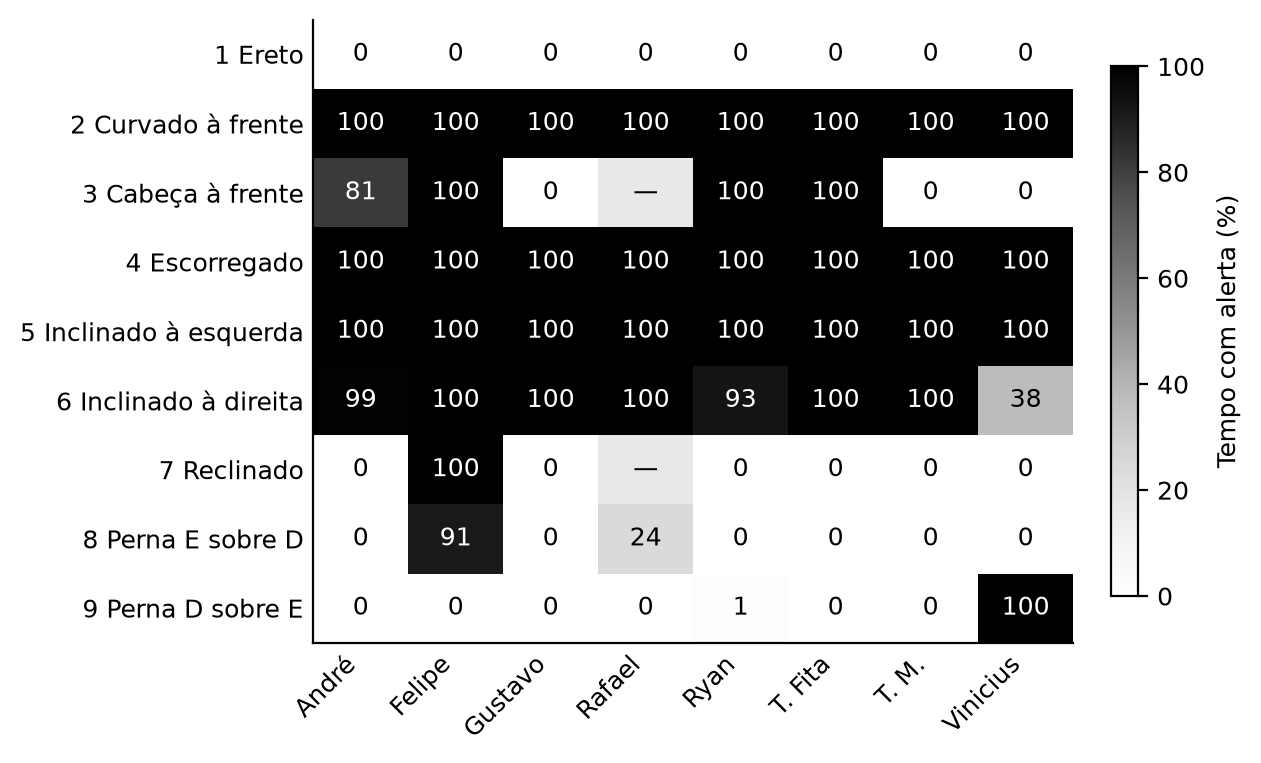
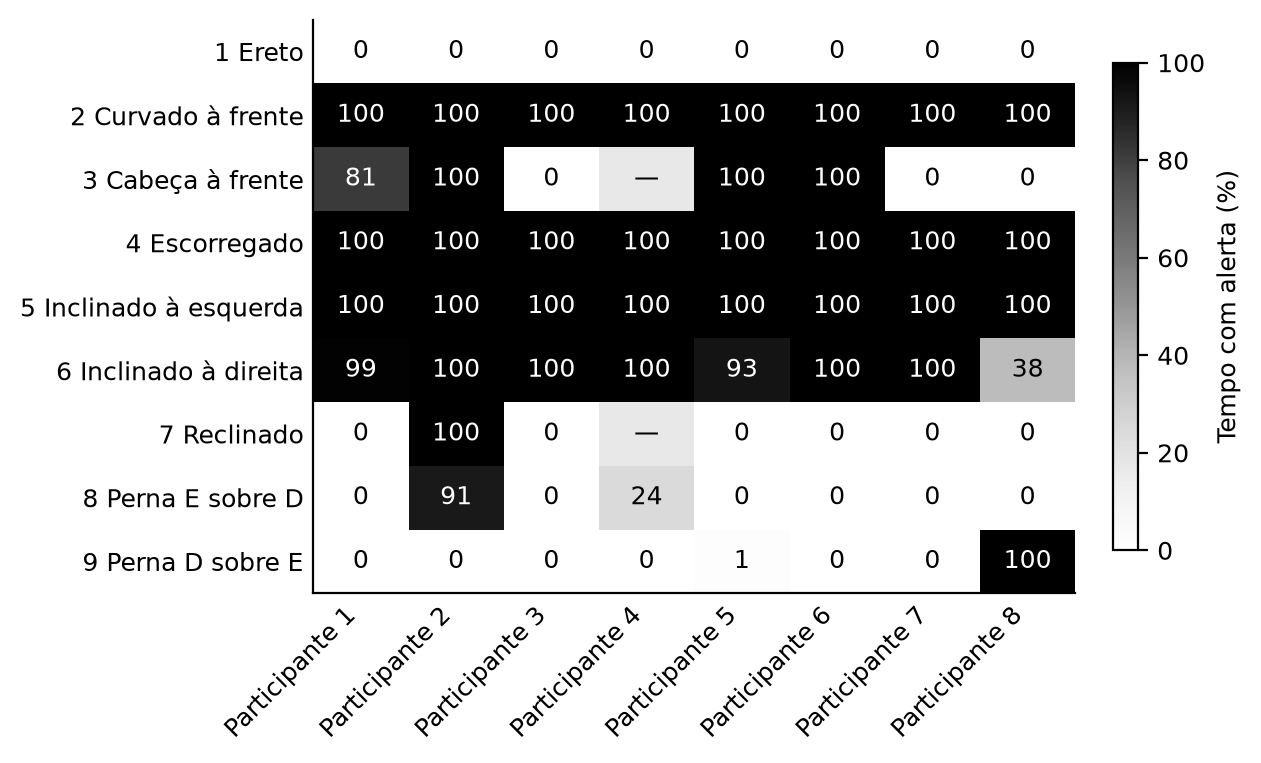
report: apply the advisor's notes on equations, dashboard and names (IMT)
Made on Overleaf and synced back, from Profa. Andressa's annotated PDF:
- ch. 3: each equation is now called in the text (Equação~\ref{...})
- ch. 3: Painel section rewritten (what it receives and how, status
  band, "Sua coluna", "Sua cadeira", timeline, visit flow) with a
  screenshot (figures/met-painel.png, from report/figures/met-dashboard-boa.png)
- ch. 4: participants anonymized (Participante 1..9) in the alert figure,
  its note and the text

diff --git a/report/imt/capitulos/3metodologia.tex b/report/imt/capitulos/3metodologia.tex
@@ -39,7 +39,7 @@ abaixo do pescoço, como mostra a Figura~\ref{fig:met-foto-colar}.
 Mede-se a orientação local, não a curvatura de toda a
 coluna. Utiliza-se apenas o acelerômetro, com giroscópio desligado.
 Das componentes $a_x$, $a_y$ e $a_z$, calculam-se \textit{pitch} ($p$)
-e \textit{roll} ($r$), em graus:
+e \textit{roll} ($r$), em graus, pela Equação~\ref{eq:met-angulos}:
 \begin{equation}
  p=\frac{180}{\pi}\operatorname{atan2}\!\left(-a_x,\sqrt{a_y^2+a_z^2}\right),
  \qquad r=\frac{180}{\pi}\operatorname{atan2}(a_y,a_z).
@@ -96,7 +96,8 @@ absoluta na espuma.
 O circuito da Figura~\ref{fig:met-esquema-cadeira} usa o multiplexador
 CD74HC4067 \cite{ti_cd74hc4067} para ligar cada FSR ao resistor
 compartilhado de 3{,}3\,k\ohm{} em SIG. Incluindo a resistência de
-condução $R_{\mathrm{on}}$, a tensão lida em A0 é
+condução $R_{\mathrm{on}}$, a tensão lida em A0 é dada pela
+Equação~\ref{eq:met-divisor}:
 \begin{equation}
  V_{\mathrm{SIG}}=V_{\mathrm{DD}}
  \frac{R_{\mathrm{fixo}}}{R_{\mathrm{fixo}}+R_{\mathrm{FSR}}+R_{\mathrm{on}}}.
@@ -146,7 +147,8 @@ A referência é volátil e deve ser refeita após reinício ou recolocação.
 
 Na fusão, $FE$, $FD$, $TE$ e $TD$ indicam frente/trás e esquerda/direita do
 assento. O encosto é registrado e exibido, mas não decide o alerta, pois
-pode ficar sem carga mesmo no ereto. Para leituras $f_i$, definem-se
+pode ficar sem carga mesmo no ereto. Para leituras $f_i$, definem-se os
+indicadores da Equação~\ref{eq:met-indicadores}:
 \begin{equation}
  \begin{gathered}
  \Delta p=p-p_0,\quad \Delta r=r-r_0,\quad
@@ -188,14 +190,30 @@ beacon BLE e exibe desvio, contato e alerta, sem participar da decisão.
 \section{Painel}
 \label{sec:met-painel}
 
-O painel foi desenvolvido em Python e apresenta ao usuário a postura
-identificada pelo sistema, o contato dos sensores de força da cadeira, o tempo
-de uso e a qualidade da postura ao longo do tempo, entre outras informações.
-Ele recebe os dados da XIAO da cadeira pela conexão USB ou, sem fio, pelo
-beacon BLE que essa placa transmite; neste caso, apenas escuta, sem
-estabelecer conexão nem enviar comandos.
+O painel, desenvolvido em Python, permite acompanhar o sistema em um
+computador, sem participar da decisão do alerta. Ele recebe da XIAO da
+cadeira, a 20\,Hz, a mesma linha de estado que a placa calcula: ângulos do
+colar, leituras dos oito FSRs, resultado da fusão e alerta. A ligação usa a
+porta USB ou, sem fio, o beacon BLE que a cadeira transmite; neste caso, o
+computador apenas escuta, sem estabelecer conexão nem enviar comandos. Pelo
+cabo, a calibração também pode ser solicitada pelo teclado.
 
-A função principal do painel é ajudar o usuário a encontrar a postura ideal:
-com as amostras do colar em tempo real, ele indica quando, após o tempo de
-espera, o usuário está em uma postura prejudicial, qual é essa postura e como
-retornar à zona segura definida pela calibração.
+A Figura~\ref{fig:met-painel} apresenta a tela. A faixa superior resume o
+estado em texto e cor: postura boa (verde), atenção enquanto a postura ruim
+ainda não completou os 3\,s (laranja) e correção com o colar vibrando
+(vermelho), sempre com o nome da postura identificada pelo sistema. O quadro
+``Sua coluna'' posiciona o desvio em relação à zona boa, centrada na
+calibração, junto às regiões típicas das posturas registradas; ``Sua
+cadeira'' mostra a carga relativa de cada FSR no assento e no encosto e a
+divisão do peso entre esquerda e direita. Abaixo, aparecem o tempo sentado,
+a fração do tempo em postura boa, o número de alertas e a linha do tempo dos
+últimos 2\,min. Cada uso começa na calibração e termina após 10\,s de
+assento vazio, quando a referência é apagada para o próximo usuário.
+
+\begin{figure}[H]
+ \centering
+ \caption{Tela do painel com o usuário em postura boa.}
+ \includegraphics[width=.85\linewidth]{met-painel.png}
+ \fonte{Elaborado pelos autores (2026)}
+ \label{fig:met-painel}
+\end{figure}

diff --git a/report/imt/capitulos/4resultados.tex b/report/imt/capitulos/4resultados.tex
@@ -80,8 +80,8 @@ rótulo; por isso, informa-se também o tempo alertado.
 Na Figura~\ref{fig:res-alerta-sujeitos}, curvar à frente, escorregar e
 inclinar à esquerda alertaram durante todo o recorte com a fusão final.
 Cabeça à frente falhou em três de sete participantes: o movimento
-localizado pouco alterou o IMU e preservou o contato. À direita de
-Vinicius, desvio próximo ao limiar e carga oposta à esperada limitaram
+localizado pouco alterou o IMU e preservou o contato. À direita do
+Participante 8, desvio próximo ao limiar e carga oposta à esperada limitaram
 o alerta a 38\,\% do tempo.
 
 \begin{figure}[H]
@@ -93,14 +93,13 @@ o alerta a 38\,\% do tempo.
   \begingroup\SingleSpacing
   {\footnotesize Espera-se alerta nas linhas 2--6 e ausência nas demais;
   células escuras indicam mais alerta, não necessariamente acerto. Traço:
-  postura não registrada. E/D: esquerda/direita; T. Fita/T. M.: Thiago
-  Fita/Thiago M.}
+  postura não registrada. E/D: esquerda/direita.}
   \endgroup
 \end{figure}
 
-Em Felipe, desvio lateral próximo de 10\degree{} sem alteração no
+No Participante 2, desvio lateral próximo de 10\degree{} sem alteração no
 assento foi compatível com deslocamento do colar e gerou falsos alarmes.
-Vinicius escorregou ao cruzar as pernas: um alerta justificável foi contado
+O Participante 8 escorregou ao cruzar as pernas: um alerta justificável foi contado
 como falso pelo rótulo. Na ablação cumulativa, o maior ganho veio do
 tratamento da reclinação apoiada; a confirmação lateral também acrescentou
 falsos alarmes com pernas cruzadas.
@@ -108,12 +107,12 @@ falsos alarmes com pernas cruzadas.
 \section{Validação em \textit{hardware}  e mostra}
 \label{sec:res-hardware}
 
-Na rodada guiada de André, participante do desenvolvimento, o alerta
+Na rodada guiada do Participante 1, integrante do desenvolvimento, o alerta
 nas placas ocupou 100\,\% do tempo estabilizado de 2--6 e 0\,\% das
 demais posturas. Perceberam-se a vibração e sua interrupção ao retornar ao
 ereto, verificando sensores, decisão e atuação.
 
-Lucas, sujeito novo, realizou roteiro parcial: curvar à frente e escorregar
+O Participante 9, sujeito novo, realizou roteiro parcial: curvar à frente e escorregar
 alertaram em 100\,\% do tempo estabilizado; inclinar à direita não
 alertou. À esquerda, o alerta ocupou 9{,}2\,\%: a vibração perturbou o
 IMU em cerca de $\pm10\degree{}$, interrompendo o alerta e reiniciando
